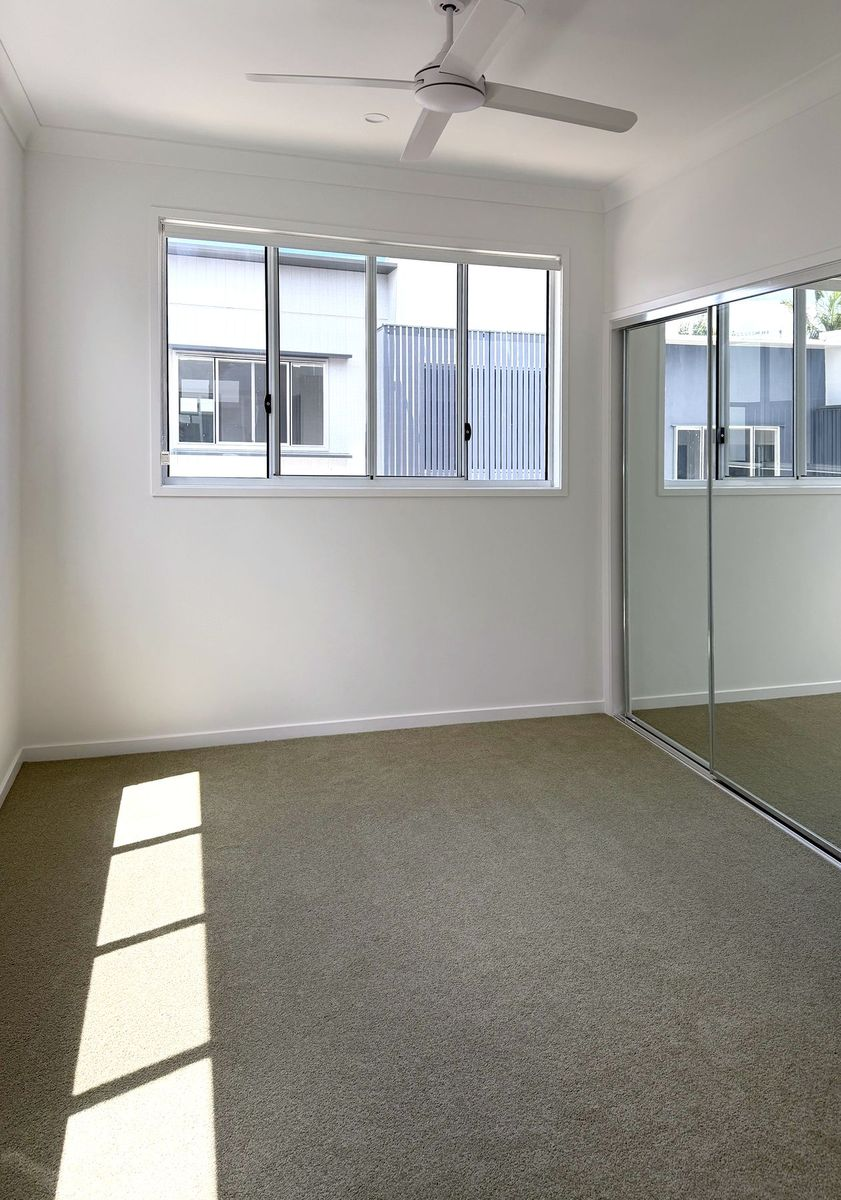
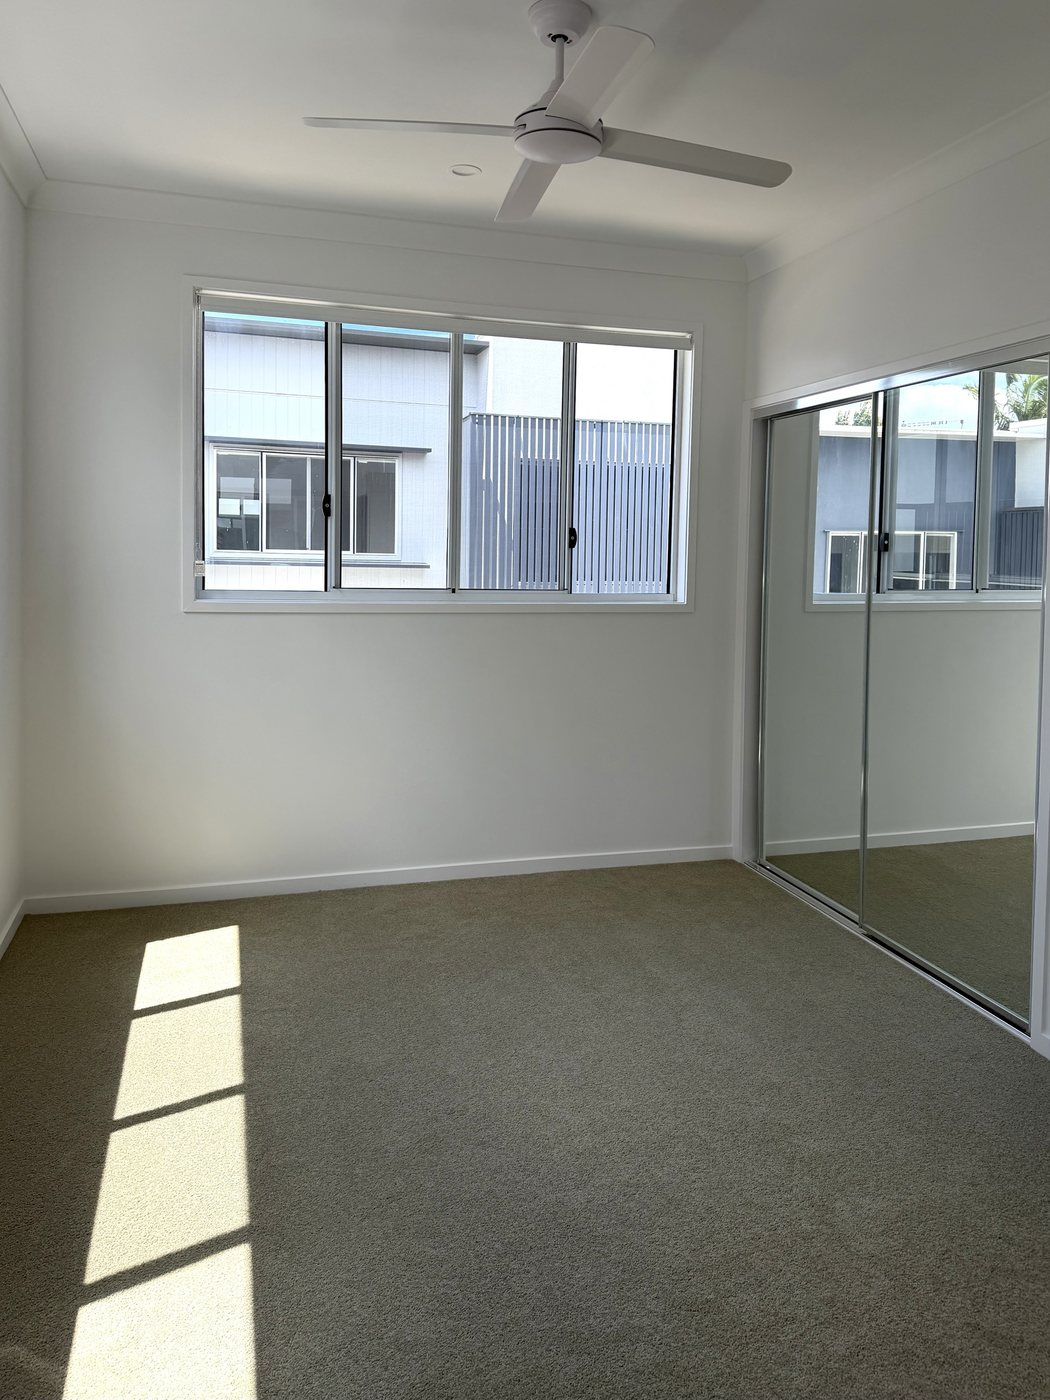
Use original job photos in Handover Ready carousel
Claude-Session: https://claude.ai/code/session_01NmbxmKkFzreXxmg8R9LtEs

diff --git a/index.html b/index.html
@@ -162,13 +162,14 @@
 <section class="section alt" id="work">
 <div class="wrap">
 <header class="section-head center"><p class="eyebrow">Recent work</p><h2 class="section-title">Handover ready</h2>
-<p class="section-intro">Real after shots from one of our recent Brisbane handovers. Kitchen, bathroom, bedrooms and windows, all detailed.</p></header>
+<p class="section-intro">Real after shots from one of our recent handovers. Kitchen, bathrooms, bedrooms and windows, all detailed.</p></header>
 <div class="hr-wrap"><div class="hr-track" tabindex="0" aria-label="Recent work photos">
-<figure><img src="images/work-kitchen.jpg" width="893" height="1200" alt="Clean white kitchen with island bench" loading="lazy"><figcaption>Kitchen</figcaption></figure>
-<figure><img src="images/work-bathroom.jpg" width="832" height="1200" alt="Clean bathroom with glass shower" loading="lazy"><figcaption>Bathroom</figcaption></figure>
-<figure><img src="images/work-bedroom.jpg" width="841" height="1200" alt="Clean empty bedroom with carpet" loading="lazy"><figcaption>Bedroom</figcaption></figure>
-<figure><img src="images/work-windows.jpg" width="1200" height="907" alt="Bedroom windows and tracks after cleaning" loading="lazy"><figcaption>Windows &amp; tracks</figcaption></figure>
-<figure><img src="images/work-study.jpg" width="1200" height="919" alt="Clean study nook" loading="lazy"><figcaption>Study</figcaption></figure>
+<figure><img src="images/work-kitchen.jpg" width="1050" height="1400" alt="Clean white kitchen with stone benchtops" loading="lazy"><figcaption>Kitchen</figcaption></figure>
+<figure><img src="images/work-vanity.jpg" width="993" height="1400" alt="Double vanity with vessel basins" loading="lazy"><figcaption>Bathroom vanity</figcaption></figure>
+<figure><img src="images/work-ensuite.jpg" width="1017" height="1400" alt="Shower and toilet with clean glass" loading="lazy"><figcaption>Ensuite</figcaption></figure>
+<figure><img src="images/work-bedroom.jpg" width="1050" height="1400" alt="Bedroom with mirrored robe doors" loading="lazy"><figcaption>Bedroom</figcaption></figure>
+<figure><img src="images/work-windows.jpg" width="1400" height="1050" alt="Bedroom windows with sun on the carpet" loading="lazy"><figcaption>Windows &amp; tracks</figcaption></figure>
+<figure><img src="images/work-robe.jpg" width="1050" height="1400" alt="Walk-in robe through to the ensuite" loading="lazy"><figcaption>Walk-in robe</figcaption></figure>
 </div>
 <div class="hr-nav"><button class="hr-prev" type="button" aria-label="Previous photo">&larr;</button><button class="hr-next" type="button" aria-label="Next photo">&rarr;</button></div>
 <p class="hr-hint">Swipe to see more</p></div>
